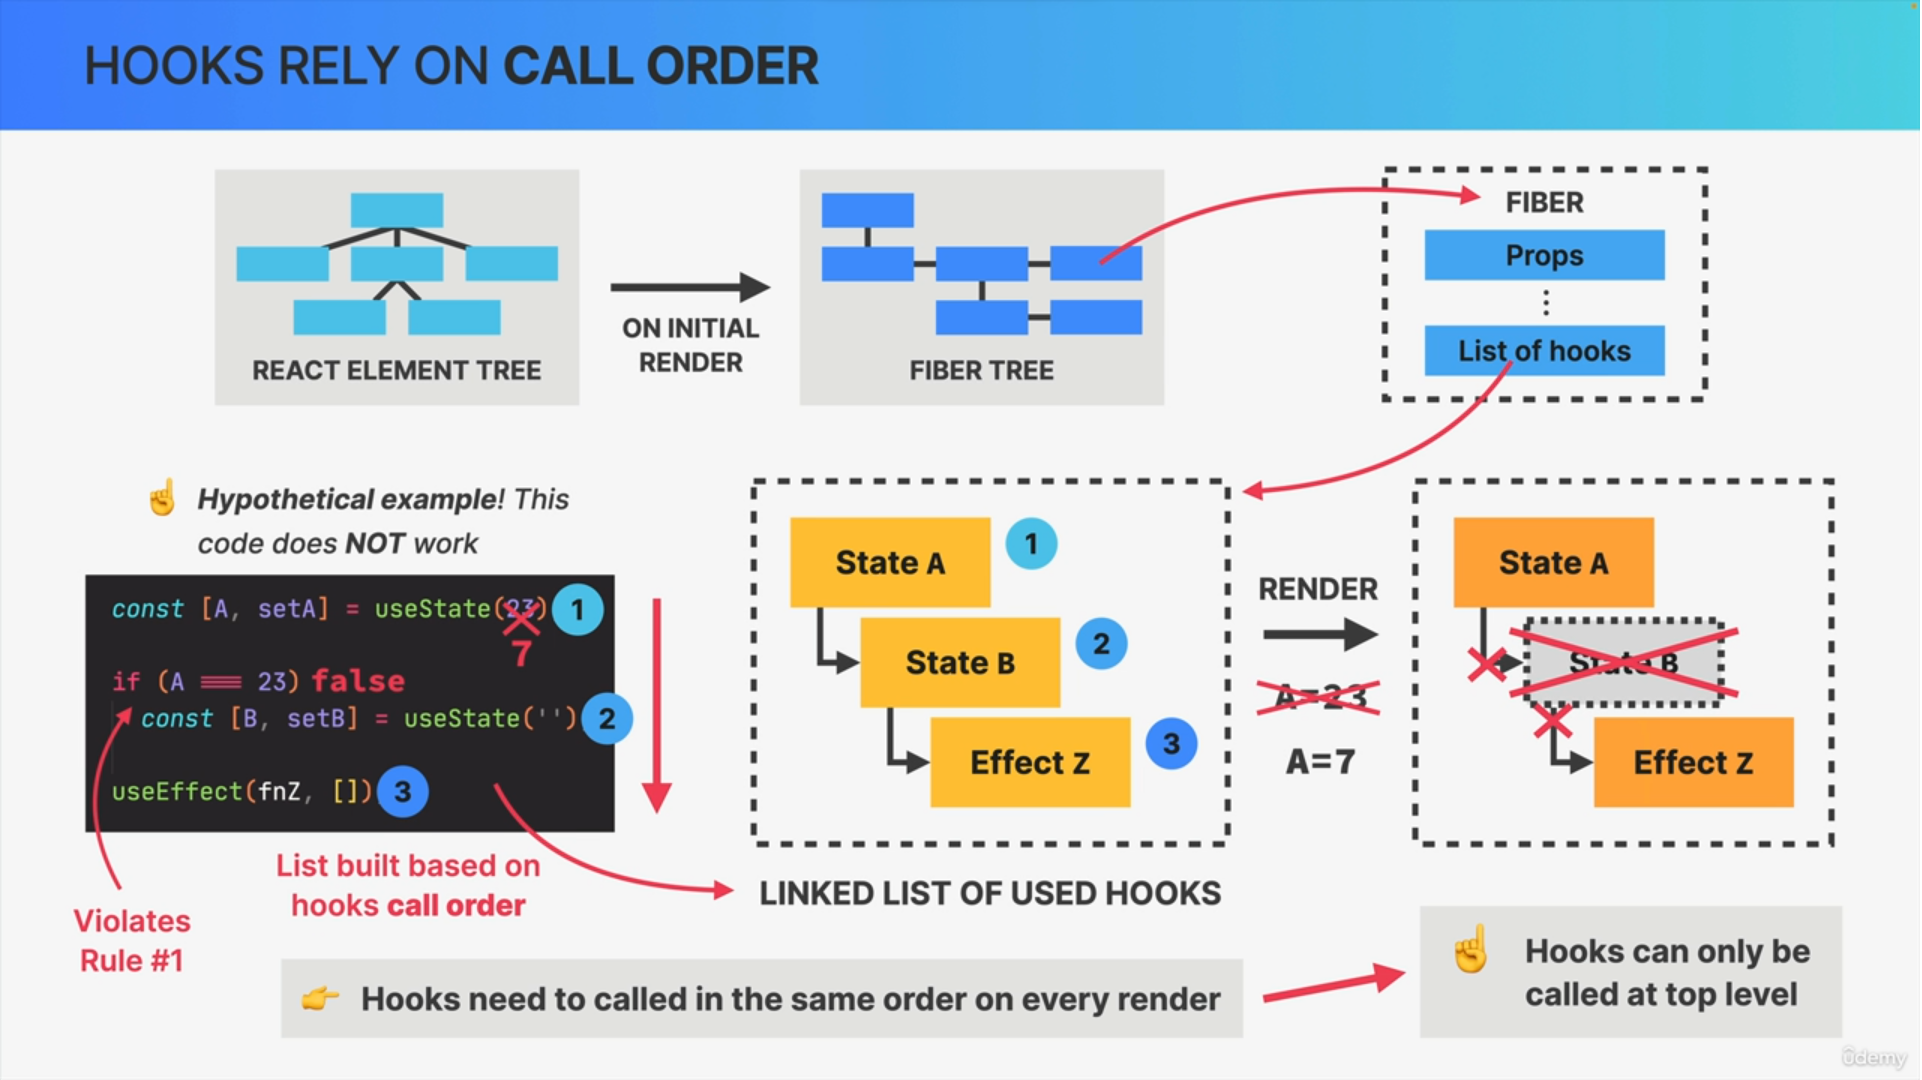
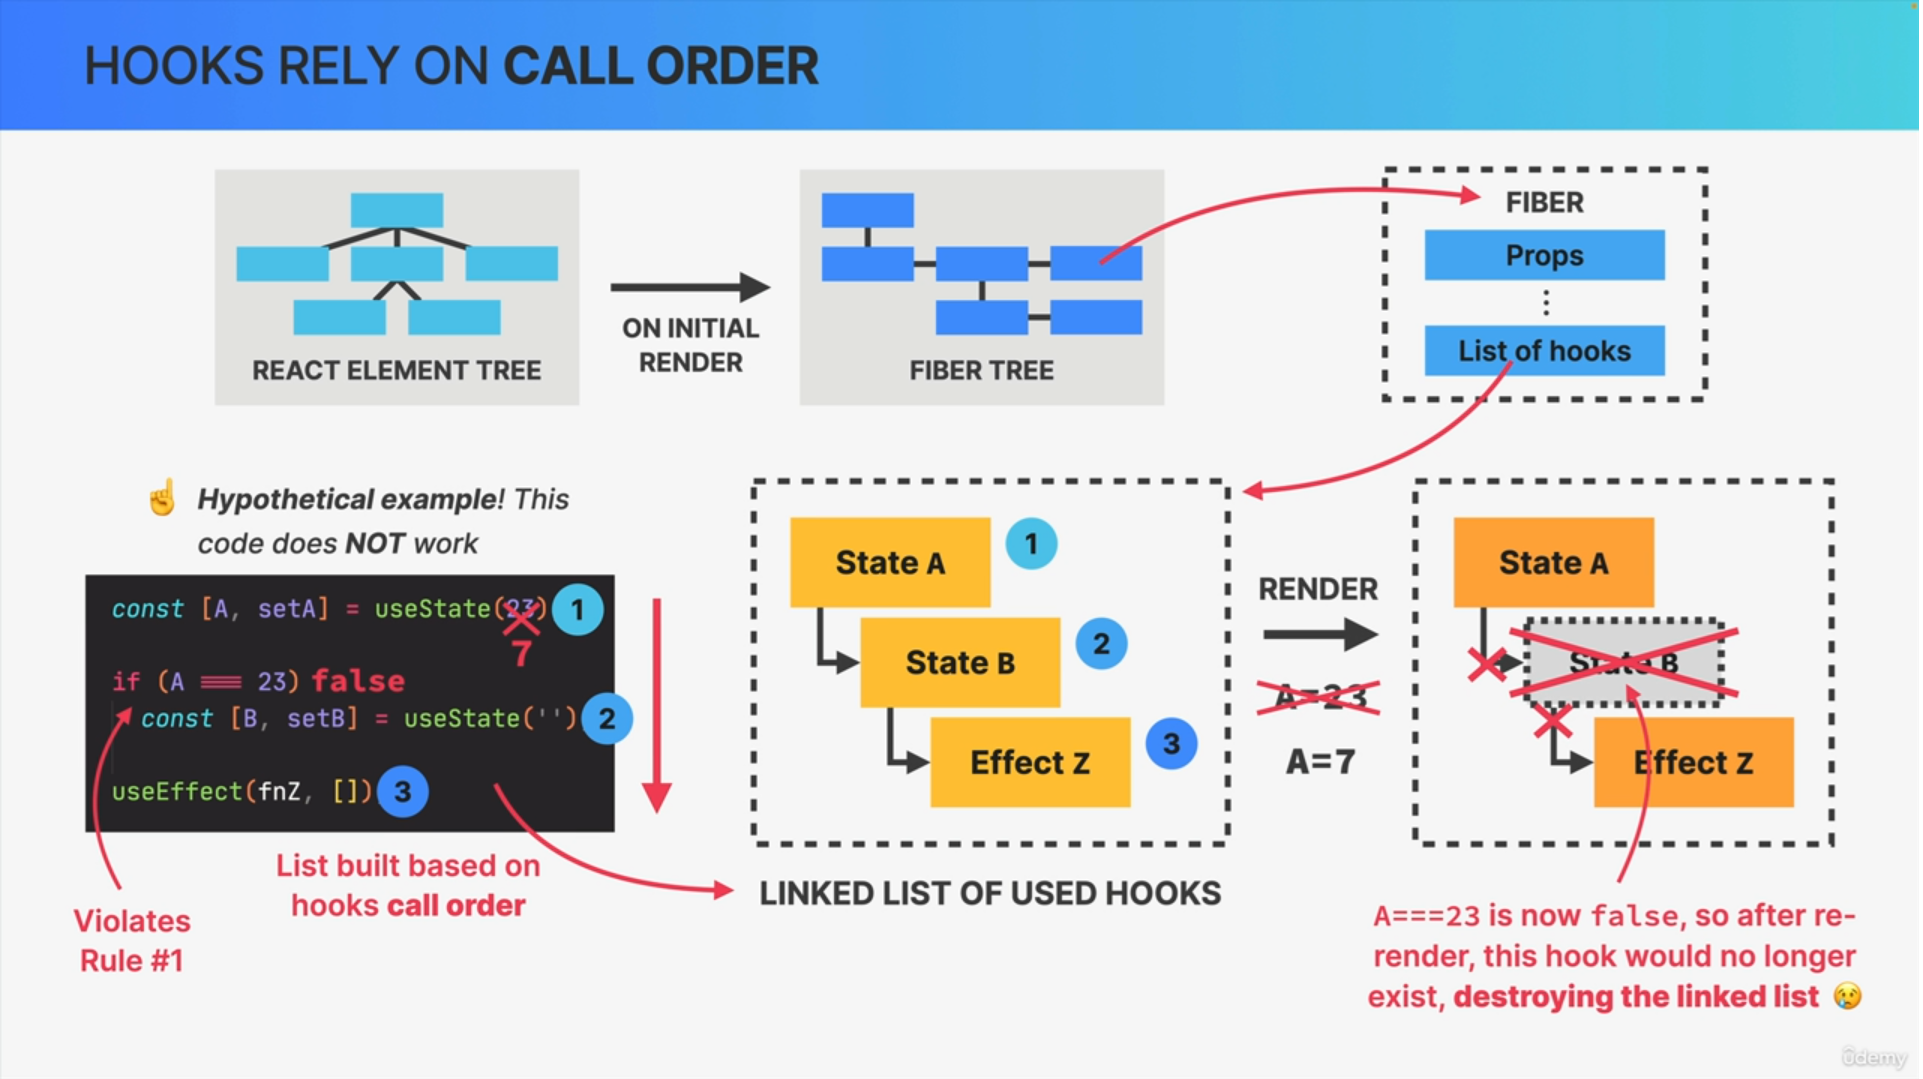
completed useRef

diff --git a/10 ReactJs/01-React/_Documentation_React.md b/10 ReactJs/01-React/_Documentation_React.md
@@ -634,7 +634,7 @@ export default App
 
 ---
 
-## 📘Derived State
+### 📘Derived State
 
 More you have **states** more you have **re-rendering**
 
@@ -1620,9 +1620,10 @@ export function App() {
 
 ![Image](./images/react-hooks-4.png)
 
-example
+![Image](./images/react-hooks-5.png)
 
 ```js
+// Example : if don't follow the rules of hooks like in below example  if hook use as conditionally it could mess up this entire order here.
 import { useState } from 'react';
 import "./App.css";
 
@@ -1645,135 +1646,142 @@ function App() {
 export default App;
 ```
 ![Image](images/practical-example-of-react-rules.png)
+
 ---
 
-## 📘More Details of useState
+### 📘More Details of useState
 
-* we can initialize the values in useState Hooks by **callback function** as well
+* We can initialize the values in useState Hooks by **callback function** as well
+
 * It only works on **initial render**
-* we cannot send parameters in **callback function**
-* So whenever the initial value of the state depends on some sort of computation we should always pass the callback function example value from localstorage. otherwise we use separate **useEffect** function to get the value from **localstorage** and then set the value for that state
-Example
-```js
-import { useEffect, useState } from 'react';
-import "./App.css";
 
-function App() {
+* We cannot send parameters in **callback function**
 
-  const [count, setCount] = useState(() => {
-    return Number(localStorage.getItem('count')) || 0
-  });
+* So whenever the initial value of the state depends on some sort of computation we should always pass the callback function example value from localstorage. otherwise we use separate **useEffect** function to get the value from **localstorage** and then set the value for that state.
 
-  useEffect(() => {
-    localStorage.setItem('count', count);
-  }, [count])
+  ```js
+  import { useEffect, useState } from 'react';
 
-  return <div>
-    <h3>count : {count}</h3>
-    <button onClick={() => setCount(e => e + 1)}> Increment</button>
-  </div>
+  function App() {
 
-}
+    // this is the best practice to set state using callback
+    const [count, setCount] = useState(() => {
+      return Number(localStorage.getItem('count')) || 0
+    });
 
-export default App;
-```
-![Image](./images/sumarry-usestate-hook.png)
+    useEffect(() => {
+      localStorage.setItem('count', count);
+    }, [count])
 
-## 📘UseRef
+    return <div>
+      <h3>count : {count}</h3>
+      <button onClick={() => setCount(e => e + 1)}> Increment</button>
+    </div>
 
-* **useRef** is use to *stop manually selecting DOM element*
-* Selecting any element by using *document.getElementBy('id')* is not good idea because you already know that *React is all about being declarative and so manually selecting a Dom element like this is not really the react way of doing things* example not doing adding classes, id etc
-* **Majorly use** for
-  1. Selecting element
-  2. Storing Data for inputs or timer (setIntervale or setTimeout)
-
-![Image](./images/useRef-1.png)
-
-![Image](./images/useRef-2.png)
-
-Example
-
-```js
-import React, { useEffect, useRef, useState } from 'react'
-import './App.css';
-
-const App = () => {
-  //1. creating reference like creating element or class in vanilla javascript
-  const inputElement = useRef(null);
-  const [inputValue, setInputValue] = useState('');
-
-  useEffect(() => {
-    function callback(e) {
-
-      // checking the current element
-      if (document.activeElement === inputElement.current) return
-
-      if (e.code === "Enter") {
-        // make focus on selected element
-        inputElement.current.focus();
-        setInputValue('');
-      }
-    }
-    document.addEventListener('keydown', callback)
-
-    // printing the selected element which is in current property
-    console.log(inputElement.current);
-
-    // remove event listener when component get unmount
-    return () => document.removeEventListener("keydown", callback)
-
-  }, [])
-
-  return (<div>
-    <input
-      type='text'
-      name=''
-      //2. attaching that reference which is provided by useRef by react, because react is declarative in nature
-      ref={inputElement}
-      value={inputValue}
-      onChange={(e) => setInputValue(e.target.value)}
-    />
-  </div>
-  )
-}
-
-export default App
-```
-
-![Image](./images/useRef-3.png)
-
----
-## 📘Refs to persist data between Renders
-
-* In this example Component will not re-render but the value will *persist between Renders* for example *for count value*
-* best use when we don't want to show any data on DOM
-
-
-```js
-import React, { useRef } from 'react'
-import './App.css';
-
-const App = () => {
-  const inputElement = useRef(1);
-
-  const incrementHandler = function () {
-    inputElement.current += 1
-    console.log('ref', inputElement.current);
   }
 
-  return (<div>
-    <h1>Count : {inputElement.current}</h1>
-    <button onClick={() => incrementHandler()}>
-      Increment
-    </button>
-  </div>)
-}
+  export default App;
+  ```
 
-export default App
-```
-![Image](./images/use-ref-value-persist.png)
+  ![Image](./images/sumarry-usestate-hook.png)
+
 ---
-## 📘Whats are Custom Hooks When to create One
+
+### 📘UseRef
+
+* **useRef** is use to *stop manually selecting DOM element*
+
+* Selecting any element by using *document.getElementBy('id')* is not good idea because you already know that *React is all about being declarative and so manually selecting a Dom element like this is not really the react way of doing things* example not doing adding classes, id etc
+
+  ![Image](./images/useRef-1.png)
+
+  ![Image](./images/useRef-2.png)
+
+
+  ```js
+  import React, { useEffect, useRef, useState } from 'react'
+
+  const App = () => {
+    //1. creating reference like creating element or class in vanilla javascript
+    const inputElement = useRef(null);
+    const [inputValue, setInputValue] = useState('');
+
+    useEffect(() => {
+      function callback(e) {
+
+        // checking the current element
+        if (document.activeElement === inputElement.current) return
+
+        if (e.code === "Enter") {
+          // make focus on selected element
+          inputElement.current.focus();
+          setInputValue('');
+        }
+      }
+      document.addEventListener('keydown', callback)
+
+      // printing the selected element which is in current property
+      console.log(inputElement.current);
+
+      // remove event listener when component get unmount
+      return () => document.removeEventListener("keydown", callback)
+
+    }, [])
+
+    return (<div>
+      <input
+        type='text'
+        name=''
+        //2. attaching that reference which is provided by useRef by react, because react is declarative in nature
+        ref={inputElement}
+        value={inputValue}
+        onChange={(e) => setInputValue(e.target.value)}
+      />
+    </div>
+    )
+  }
+
+  export default App
+  ```
+
+  ![Image](./images/useRef-3.png)
+
+---
+
+### 📘Refs to persist data between Renders
+
+* In this example Component will not re-render but the value will *persist between Renders* for example *for count value*
+
+* Best use when we don't want to show any data on DOM
+
+  ```js
+  import React, { useRef } from 'react'
+
+  const App = () => {
+    const inputElement = useRef(1);
+
+    const incrementHandler = function () {
+      inputElement.current += 1
+      console.log('ref', inputElement.current);
+    }
+
+    return (<div>
+      {/* Will not re-render in JSX */}
+      <h1>Count : {inputElement.current}</h1>
+      <button onClick={() => incrementHandler()}>
+        Increment
+      </button>
+    </div>)
+  }
+
+  export default App
+  ```
+  ![Image](./images/use-ref-value-persist.png)
+
+
+---
+
+### 📘Whats are Custom Hooks When to create One
 
 ![Image](./images/custome-hook.png)
 
